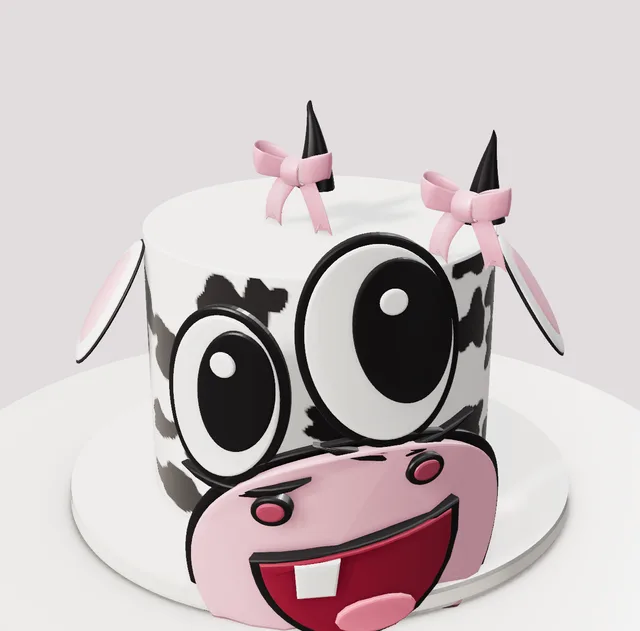
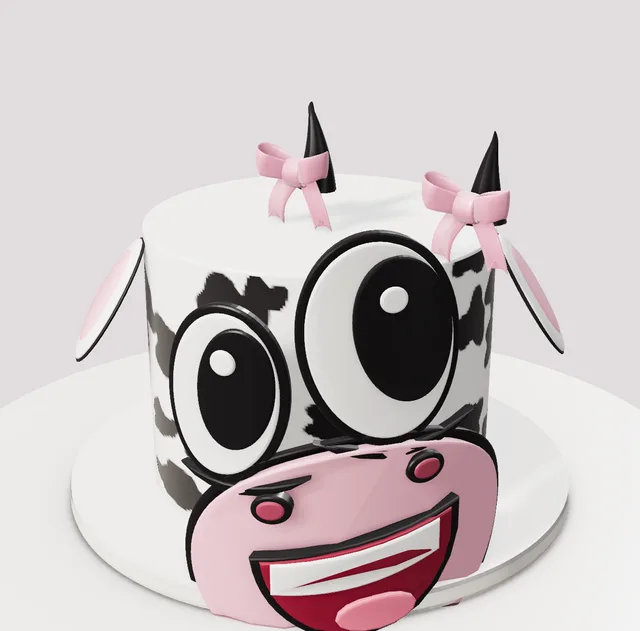
Cow: white upper teeth row; bee: taller piped grass and more flowers
Claude-Session: https://claude.ai/code/session_016sN14hzH19WJ5zrp8o2QGp

diff --git a/studio.html b/studio.html
@@ -1414,7 +1414,7 @@ function cowFaceParts(q,c,mode,dc){const black=[],white=[],pink=[],dark=[],red=[
  const M=k=>{const cx=.12,cy=-.62,P=(x,y)=>[cx+(x-cx)*k,cy+(y-cy)*k];const s=new T.Shape();s.moveTo(...P(-.42,-.52));s.quadraticCurveTo(...P(.1,-.42),...P(.66,-.26));s.bezierCurveTo(...P(.72,-.75),...P(.25,-1.05),...P(-.12,-.92));s.quadraticCurveTo(...P(-.38,-.8),...P(-.42,-.52));return s};
  black.push(flatShape(M(.92),.06,0));red.push(flatShape(M(.82),.07,0));
  const tg=new T.Shape();tg.absellipse(.2,-.8,.18,.08,0,2*PI,false,.15);tongue.push(flatShape(tg,.075,0));
- const th=new T.Shape();th.moveTo(-.16,-.52);th.lineTo(.02,-.49);th.lineTo(.0,-.66);th.lineTo(-.15,-.68);th.closePath();white.push(flatShape(th,.08,0));
+ {const k=.82,cx=.12,cy=-.62,P=(x,y)=>[cx+(x-cx)*k,cy+(y-cy)*k],q=(u,a,c,d)=>(1-u)*(1-u)*a+2*u*(1-u)*c+u*u*d,A=P(-.42,-.52),C=P(.1,-.42),D=P(.66,-.26),top=[],bot=[];for(let i=0;i<=16;i++){const u=.06+.86*i/16,x=q(u,A[0],C[0],D[0]),y=q(u,A[1],C[1],D[1]);top.push(new T.Vector2(x,y-.01));bot.push(new T.Vector2(x,y-.15-.03*Math.sin(u*PI)))}const th=new T.Shape([...top,...bot.reverse()]);white.push(flatShape(th,.08,0))}
  const R=sgR(dc),B=l=>sgBend(mg(l),R);return[[dmat('#1d1b1f',{r:.35,cc:.5}),B(black)],[dmat('#ffffff',{r:.35,cc:.4}),B(white)],[dmat(c,{r:.4,cc:.4}),B(pink)],[dmat('#a0475c',{r:.4,cc:.4}),B(dark)],[dmat('#8a2338',{r:.45,cc:.4}),B(red)],[dmat('#e77f96',{r:.45,cc:.4}),B(tongue)]]}
 // ---------- baby shower ----------
 function teddyParts(q,c){const S=(sx,sy,sz,x,y,z)=>{const g=new T.SphereGeometry(1,20,14);g.scale(sx,sy,sz);g.translate(x,y,z);return g};
@@ -1697,7 +1697,7 @@ THEMES.unshift(
  {key:'sig_crawfish',name:'Crawfish Boil Pot',tag:SIG,blurb:'A brushed silver stock pot cake with a tilted lid and loop handles, spilling over with crawfish and corn, with potatoes and corn on the board.',d:{board:'white',boardColor:'#ece5d3',topper:'none',tiers:[
   newTier(8,7,{color:'#c4c8ce',finish:'fondant',texture:'brushed',top:'rope',pipe:'#aeb2b8',bottom:'rope',bottomColor:'#aeb2b8',decor:[DC('pothandle','band',2,{color:'#c9ccd2',size:160,y:2,rot:95}),DC('potlid2','cluster',1,{color:'#c9ccd2',size:300,center:true}),DC('mx_crawfish','crown',12,{size:380}),DC('mx_corn_cob','crown',3,{size:190,rot:60}),DC('mx_corn_round','cluster',3,{size:170,where:'board',seed:3}),DC('mx_corn_cob','cluster',3,{size:230,where:'board',seed:9}),DC('mx_potato','cluster',5,{size:180,where:'board'})]})]}},
  {key:'sig_bee',name:'Bumble Bee Garden',tag:SIG,blurb:'A fuzzy black piped bee dome with a big round yellow face, googly eyes and a smile, swirl wings and curly antennae, in a garden of piped grass and sugar flowers.',d:{board:'white',boardColor:'#c9d96a',topper:'none',tiers:[
-  newTier(13,1.4,{color:'#5cae4a',texture:'grass',top:'none',bottom:'none',decor:[DC('daisies','scatter',12,{color:'#fbf7f1',size:130}),DC('blossoms','scatter',18,{mix:['#f3a6c0','#f2c230','#7fb0e8','#e8475f'],size:130})]}),
+  newTier(13,1.6,{color:'#4fa340',texture:'grass',furLen:160,top:'none',bottom:'none',decor:[DC('daisies','scatter',22,{color:'#fbf7f1',size:150}),DC('blossoms','scatter',34,{mix:['#f3a6c0','#f2c230','#7fb0e8','#e8475f','#b77fc4'],size:150})]}),
   newTier(10,6,{color:'#1d1b1f',texture:'grass',furLen:150,prof:'half',top:'none',bottom:'none',decor:[DC('beeface','band',1,{color:'#ffd21f',size:405,R:4.3,rot:55,y:-.15}),DC('beetop','cluster',1,{color:'#ffd21f',size:260,center:true,face:95})]})]}},
  {key:'sig_moneybag',name:'Money Bag Birthday',tag:SIG,blurb:'A red money bag cake gathered up like a real sack, tied at the neck with a thick black rope knot and hanging ties, a big gold dollar sign, and cash and gold dollar signs spilling out of the ruffled opening.',d:{board:'white',boardColor:'#e9eaec',topper:'none',tiers:[
   newTier(9.4,7.4,{color:'#b5321f',finish:'royal',prof:'sack',texture:'gathers',top:'none',bottom:'none',decor:[DC('dollarface','band',1,{color:'#d4ae5a',size:320,R:4.7,rot:55,y:-.5}),DC('mx_cash_bundle','cluster',2,{size:320,where:'board',seed:6})]}),

diff --git a/tools/signature-decor.js b/tools/signature-decor.js
@@ -79,7 +79,7 @@ function cowFaceParts(q,c,mode,dc){const black=[],white=[],pink=[],dark=[],red=[
  const M=k=>{const cx=.12,cy=-.62,P=(x,y)=>[cx+(x-cx)*k,cy+(y-cy)*k];const s=new T.Shape();s.moveTo(...P(-.42,-.52));s.quadraticCurveTo(...P(.1,-.42),...P(.66,-.26));s.bezierCurveTo(...P(.72,-.75),...P(.25,-1.05),...P(-.12,-.92));s.quadraticCurveTo(...P(-.38,-.8),...P(-.42,-.52));return s};
  black.push(flatShape(M(.92),.06,0));red.push(flatShape(M(.82),.07,0));
  const tg=new T.Shape();tg.absellipse(.2,-.8,.18,.08,0,2*PI,false,.15);tongue.push(flatShape(tg,.075,0));
- const th=new T.Shape();th.moveTo(-.16,-.52);th.lineTo(.02,-.49);th.lineTo(.0,-.66);th.lineTo(-.15,-.68);th.closePath();white.push(flatShape(th,.08,0));
+ {const k=.82,cx=.12,cy=-.62,P=(x,y)=>[cx+(x-cx)*k,cy+(y-cy)*k],q=(u,a,c,d)=>(1-u)*(1-u)*a+2*u*(1-u)*c+u*u*d,A=P(-.42,-.52),C=P(.1,-.42),D=P(.66,-.26),top=[],bot=[];for(let i=0;i<=16;i++){const u=.06+.86*i/16,x=q(u,A[0],C[0],D[0]),y=q(u,A[1],C[1],D[1]);top.push(new T.Vector2(x,y-.01));bot.push(new T.Vector2(x,y-.15-.03*Math.sin(u*PI)))}const th=new T.Shape([...top,...bot.reverse()]);white.push(flatShape(th,.08,0))}
  const R=sgR(dc),B=l=>sgBend(mg(l),R);return[[dmat('#1d1b1f',{r:.35,cc:.5}),B(black)],[dmat('#ffffff',{r:.35,cc:.4}),B(white)],[dmat(c,{r:.4,cc:.4}),B(pink)],[dmat('#a0475c',{r:.4,cc:.4}),B(dark)],[dmat('#8a2338',{r:.45,cc:.4}),B(red)],[dmat('#e77f96',{r:.45,cc:.4}),B(tongue)]]}
 // ---------- baby shower ----------
 function teddyParts(q,c){const S=(sx,sy,sz,x,y,z)=>{const g=new T.SphereGeometry(1,20,14);g.scale(sx,sy,sz);g.translate(x,y,z);return g};
@@ -362,7 +362,7 @@ THEMES.unshift(
  {key:'sig_crawfish',name:'Crawfish Boil Pot',tag:SIG,blurb:'A brushed silver stock pot cake with a tilted lid and loop handles, spilling over with crawfish and corn, with potatoes and corn on the board.',d:{board:'white',boardColor:'#ece5d3',topper:'none',tiers:[
   newTier(8,7,{color:'#c4c8ce',finish:'fondant',texture:'brushed',top:'rope',pipe:'#aeb2b8',bottom:'rope',bottomColor:'#aeb2b8',decor:[DC('pothandle','band',2,{color:'#c9ccd2',size:160,y:2,rot:95}),DC('potlid2','cluster',1,{color:'#c9ccd2',size:300,center:true}),DC('mx_crawfish','crown',12,{size:380}),DC('mx_corn_cob','crown',3,{size:190,rot:60}),DC('mx_corn_round','cluster',3,{size:170,where:'board',seed:3}),DC('mx_corn_cob','cluster',3,{size:230,where:'board',seed:9}),DC('mx_potato','cluster',5,{size:180,where:'board'})]})]}},
  {key:'sig_bee',name:'Bumble Bee Garden',tag:SIG,blurb:'A fuzzy black piped bee dome with a big round yellow face, googly eyes and a smile, swirl wings and curly antennae, in a garden of piped grass and sugar flowers.',d:{board:'white',boardColor:'#c9d96a',topper:'none',tiers:[
-  newTier(13,1.4,{color:'#5cae4a',texture:'grass',top:'none',bottom:'none',decor:[DC('daisies','scatter',12,{color:'#fbf7f1',size:130}),DC('blossoms','scatter',18,{mix:['#f3a6c0','#f2c230','#7fb0e8','#e8475f'],size:130})]}),
+  newTier(13,1.6,{color:'#4fa340',texture:'grass',furLen:160,top:'none',bottom:'none',decor:[DC('daisies','scatter',22,{color:'#fbf7f1',size:150}),DC('blossoms','scatter',34,{mix:['#f3a6c0','#f2c230','#7fb0e8','#e8475f','#b77fc4'],size:150})]}),
   newTier(10,6,{color:'#1d1b1f',texture:'grass',furLen:150,prof:'half',top:'none',bottom:'none',decor:[DC('beeface','band',1,{color:'#ffd21f',size:405,R:4.3,rot:55,y:-.15}),DC('beetop','cluster',1,{color:'#ffd21f',size:260,center:true,face:95})]})]}},
  {key:'sig_moneybag',name:'Money Bag Birthday',tag:SIG,blurb:'A red money bag cake gathered up like a real sack, tied at the neck with a thick black rope knot and hanging ties, a big gold dollar sign, and cash and gold dollar signs spilling out of the ruffled opening.',d:{board:'white',boardColor:'#e9eaec',topper:'none',tiers:[
   newTier(9.4,7.4,{color:'#b5321f',finish:'royal',prof:'sack',texture:'gathers',top:'none',bottom:'none',decor:[DC('dollarface','band',1,{color:'#d4ae5a',size:320,R:4.7,rot:55,y:-.5}),DC('mx_cash_bundle','cluster',2,{size:320,where:'board',seed:6})]}),

diff --git a/tools/sig-themes.js b/tools/sig-themes.js
@@ -53,7 +53,7 @@ THEMES.unshift(
  {key:'sig_crawfish',name:'Crawfish Boil Pot',tag:SIG,blurb:'A brushed silver stock pot cake with a tilted lid and loop handles, spilling over with crawfish and corn, with potatoes and corn on the board.',d:{board:'white',boardColor:'#ece5d3',topper:'none',tiers:[
   newTier(8,7,{color:'#c4c8ce',finish:'fondant',texture:'brushed',top:'rope',pipe:'#aeb2b8',bottom:'rope',bottomColor:'#aeb2b8',decor:[DC('pothandle','band',2,{color:'#c9ccd2',size:160,y:2,rot:95}),DC('potlid2','cluster',1,{color:'#c9ccd2',size:300,center:true}),DC('mx_crawfish','crown',12,{size:380}),DC('mx_corn_cob','crown',3,{size:190,rot:60}),DC('mx_corn_round','cluster',3,{size:170,where:'board',seed:3}),DC('mx_corn_cob','cluster',3,{size:230,where:'board',seed:9}),DC('mx_potato','cluster',5,{size:180,where:'board'})]})]}},
  {key:'sig_bee',name:'Bumble Bee Garden',tag:SIG,blurb:'A fuzzy black piped bee dome with a big round yellow face, googly eyes and a smile, swirl wings and curly antennae, in a garden of piped grass and sugar flowers.',d:{board:'white',boardColor:'#c9d96a',topper:'none',tiers:[
-  newTier(13,1.4,{color:'#5cae4a',texture:'grass',top:'none',bottom:'none',decor:[DC('daisies','scatter',12,{color:'#fbf7f1',size:130}),DC('blossoms','scatter',18,{mix:['#f3a6c0','#f2c230','#7fb0e8','#e8475f'],size:130})]}),
+  newTier(13,1.6,{color:'#4fa340',texture:'grass',furLen:160,top:'none',bottom:'none',decor:[DC('daisies','scatter',22,{color:'#fbf7f1',size:150}),DC('blossoms','scatter',34,{mix:['#f3a6c0','#f2c230','#7fb0e8','#e8475f','#b77fc4'],size:150})]}),
   newTier(10,6,{color:'#1d1b1f',texture:'grass',furLen:150,prof:'half',top:'none',bottom:'none',decor:[DC('beeface','band',1,{color:'#ffd21f',size:405,R:4.3,rot:55,y:-.15}),DC('beetop','cluster',1,{color:'#ffd21f',size:260,center:true,face:95})]})]}},
  {key:'sig_moneybag',name:'Money Bag Birthday',tag:SIG,blurb:'A red money bag cake gathered up like a real sack, tied at the neck with a thick black rope knot and hanging ties, a big gold dollar sign, and cash and gold dollar signs spilling out of the ruffled opening.',d:{board:'white',boardColor:'#e9eaec',topper:'none',tiers:[
   newTier(9.4,7.4,{color:'#b5321f',finish:'royal',prof:'sack',texture:'gathers',top:'none',bottom:'none',decor:[DC('dollarface','band',1,{color:'#d4ae5a',size:320,R:4.7,rot:55,y:-.5}),DC('mx_cash_bundle','cluster',2,{size:320,where:'board',seed:6})]}),

diff --git a/tools/sig-pieces.js b/tools/sig-pieces.js
@@ -79,7 +79,7 @@ function cowFaceParts(q,c,mode,dc){const black=[],white=[],pink=[],dark=[],red=[
  const M=k=>{const cx=.12,cy=-.62,P=(x,y)=>[cx+(x-cx)*k,cy+(y-cy)*k];const s=new T.Shape();s.moveTo(...P(-.42,-.52));s.quadraticCurveTo(...P(.1,-.42),...P(.66,-.26));s.bezierCurveTo(...P(.72,-.75),...P(.25,-1.05),...P(-.12,-.92));s.quadraticCurveTo(...P(-.38,-.8),...P(-.42,-.52));return s};
  black.push(flatShape(M(.92),.06,0));red.push(flatShape(M(.82),.07,0));
  const tg=new T.Shape();tg.absellipse(.2,-.8,.18,.08,0,2*PI,false,.15);tongue.push(flatShape(tg,.075,0));
- const th=new T.Shape();th.moveTo(-.16,-.52);th.lineTo(.02,-.49);th.lineTo(.0,-.66);th.lineTo(-.15,-.68);th.closePath();white.push(flatShape(th,.08,0));
+ {const k=.82,cx=.12,cy=-.62,P=(x,y)=>[cx+(x-cx)*k,cy+(y-cy)*k],q=(u,a,c,d)=>(1-u)*(1-u)*a+2*u*(1-u)*c+u*u*d,A=P(-.42,-.52),C=P(.1,-.42),D=P(.66,-.26),top=[],bot=[];for(let i=0;i<=16;i++){const u=.06+.86*i/16,x=q(u,A[0],C[0],D[0]),y=q(u,A[1],C[1],D[1]);top.push(new T.Vector2(x,y-.01));bot.push(new T.Vector2(x,y-.15-.03*Math.sin(u*PI)))}const th=new T.Shape([...top,...bot.reverse()]);white.push(flatShape(th,.08,0))}
  const R=sgR(dc),B=l=>sgBend(mg(l),R);return[[dmat('#1d1b1f',{r:.35,cc:.5}),B(black)],[dmat('#ffffff',{r:.35,cc:.4}),B(white)],[dmat(c,{r:.4,cc:.4}),B(pink)],[dmat('#a0475c',{r:.4,cc:.4}),B(dark)],[dmat('#8a2338',{r:.45,cc:.4}),B(red)],[dmat('#e77f96',{r:.45,cc:.4}),B(tongue)]]}
 // ---------- baby shower ----------
 function teddyParts(q,c){const S=(sx,sy,sz,x,y,z)=>{const g=new T.SphereGeometry(1,20,14);g.scale(sx,sy,sz);g.translate(x,y,z);return g};
